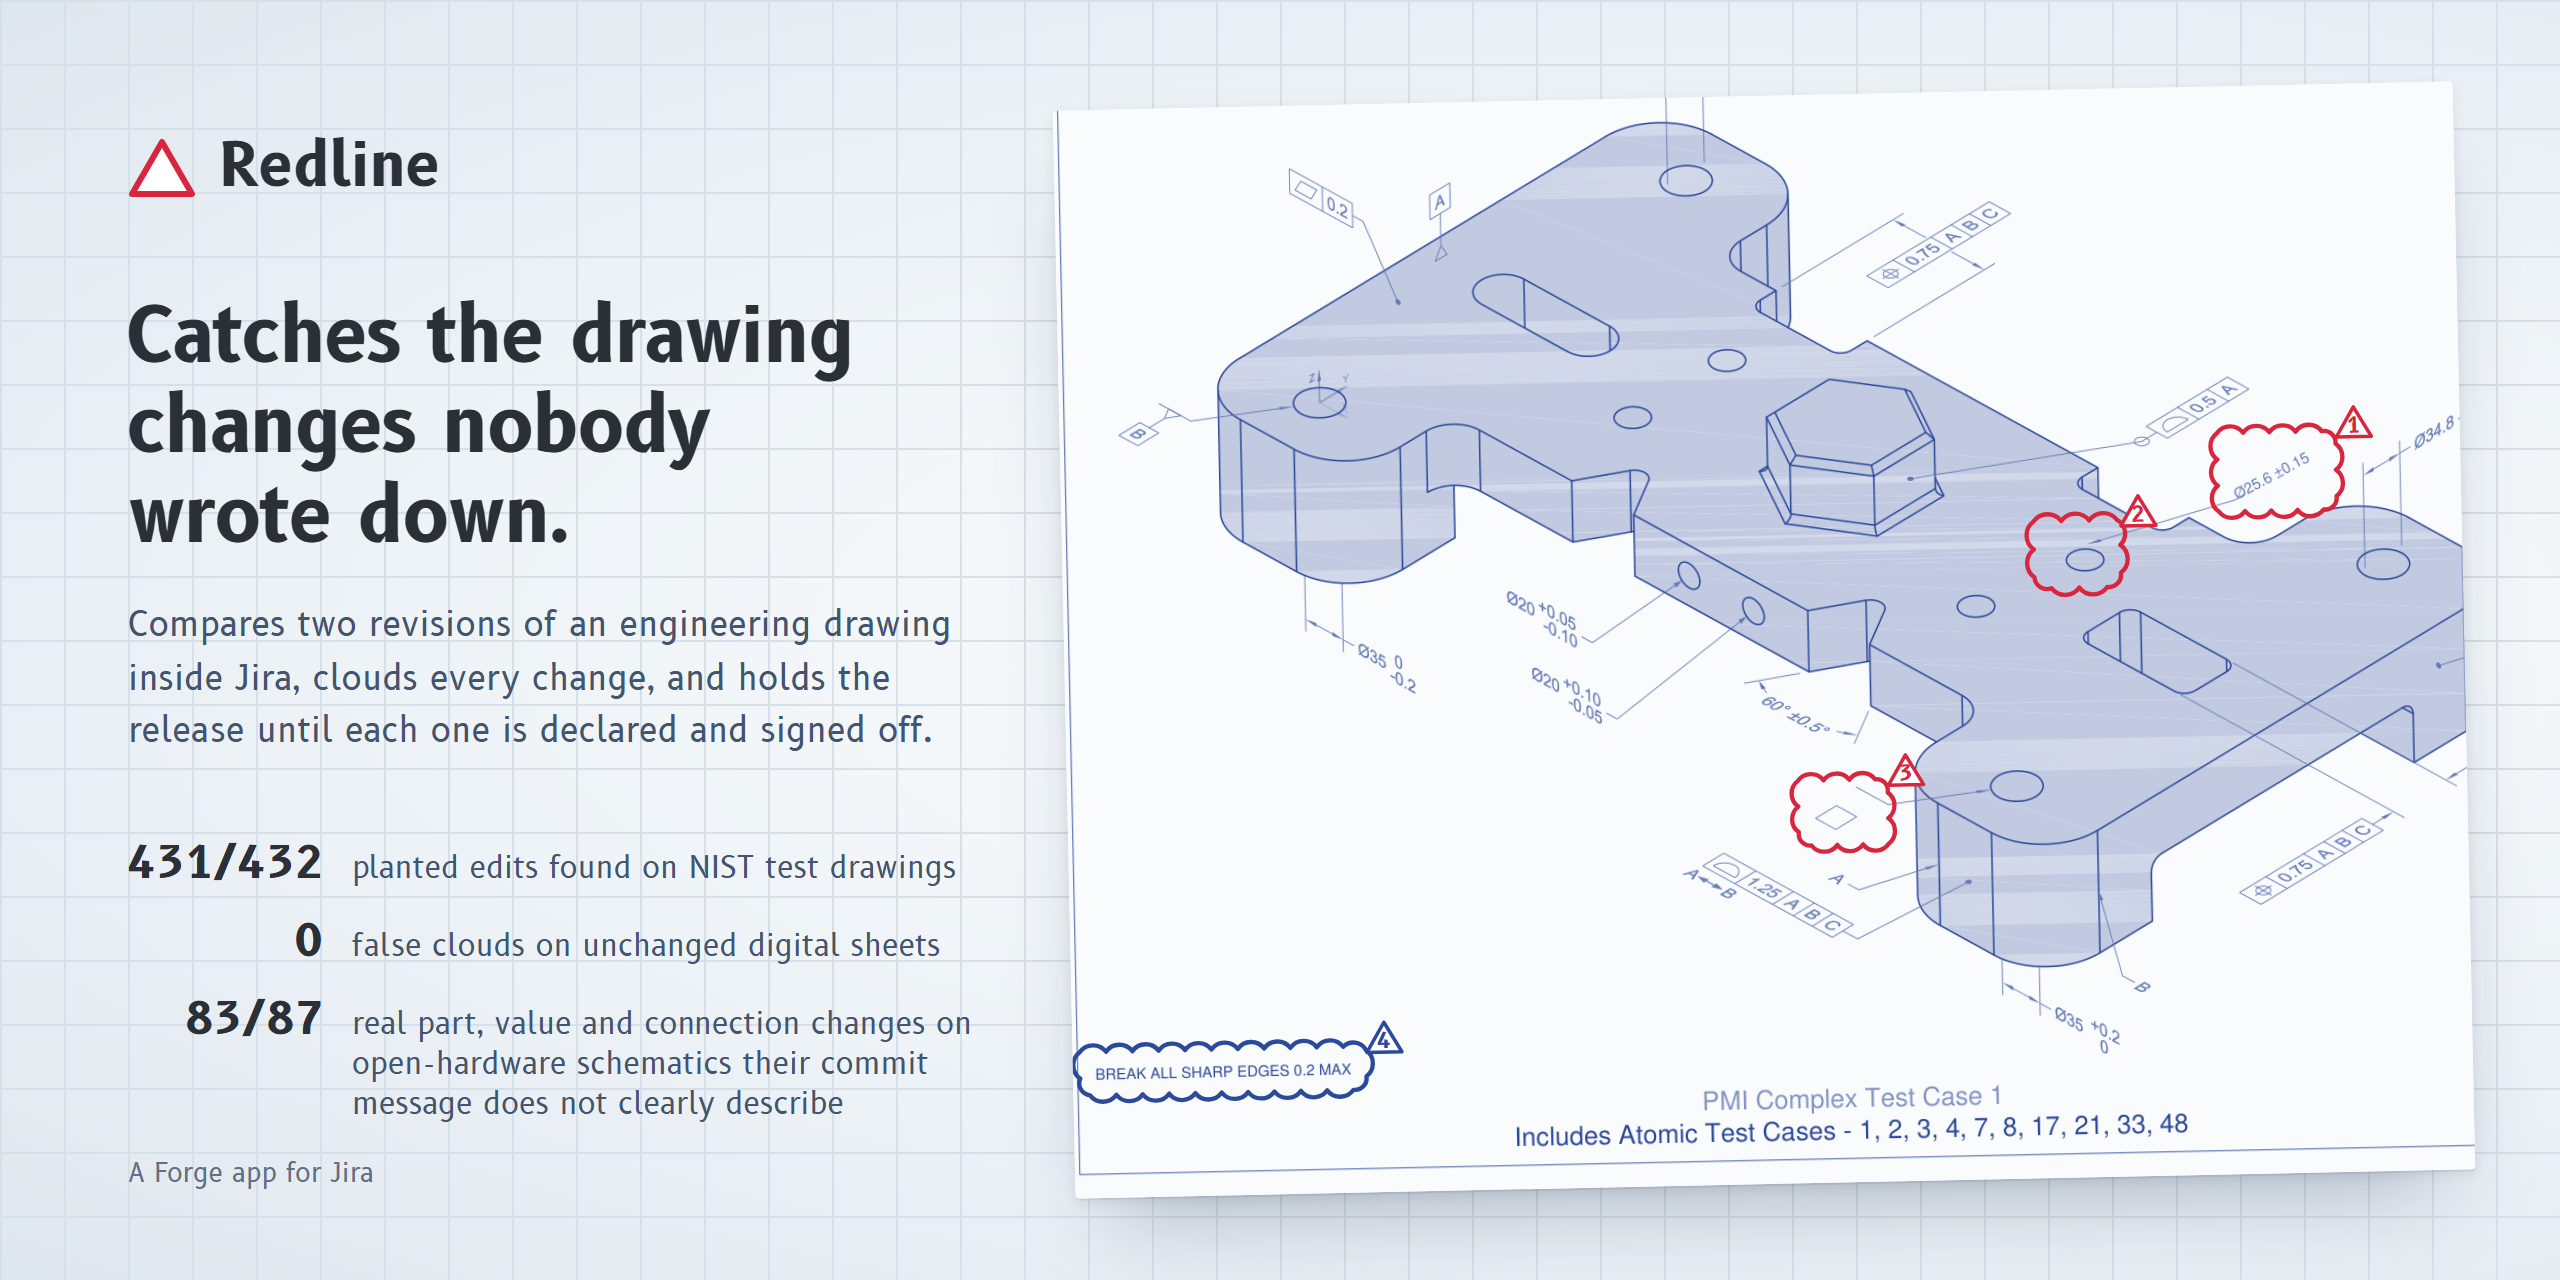
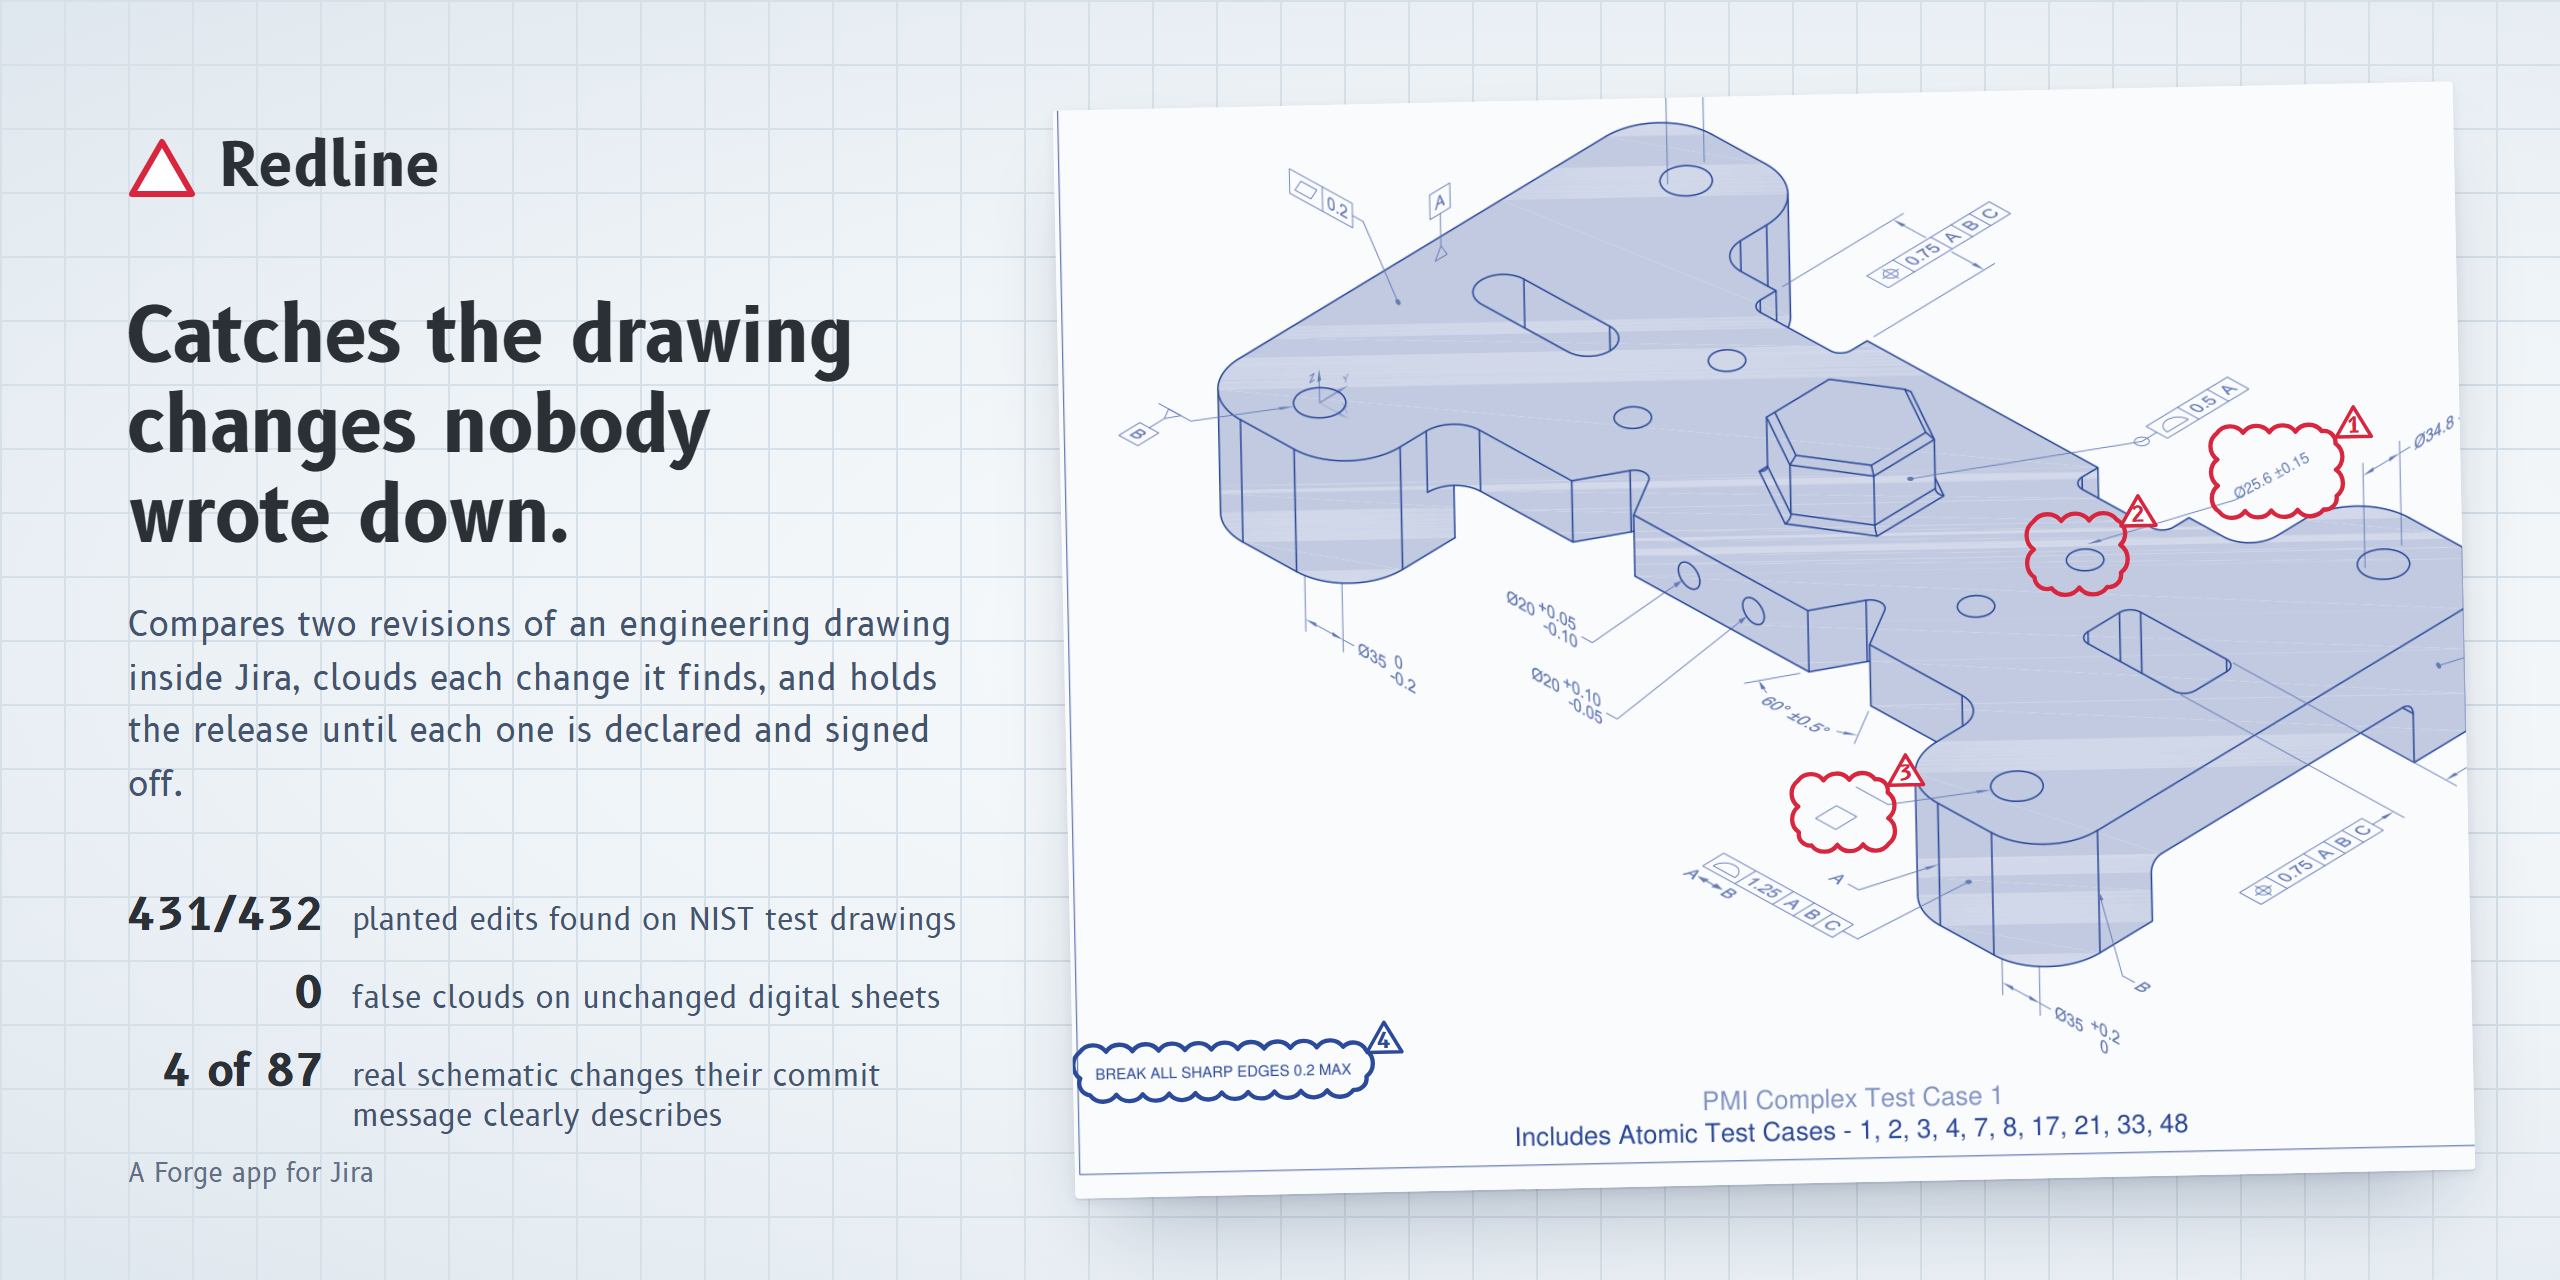
Design: changes lead with what they mean (Diameter 25 to 25.6), one-sentence value mismatch, a selected change shows on the drawing with pen markups stepped back, notes band keeps its height on short screens; 'the drawing is right' is for the note's words; cover and script say each change it finds a

Changed region(s): [[0.0312, 0.6562, 0.375, 0.875], [0.0625, 0.5, 0.375, 0.5938], [0.0312, 0.5938, 0.0625, 0.625]]

diff --git a/static/lighttable/src/LightTable.jsx b/static/lighttable/src/LightTable.jsx
@@ -7,7 +7,7 @@ import { revisionOfName } from './engine/titleblock.mjs';
 import { meaningOf } from './engine/meaning.mjs';
 import { analyse, noteSheet, composite, grayToImage, ENGINE_VERSION, ZONE_COLS, ZONE_ROWS, loadPhoto, readPrint, photoForUpload, quadMatrix } from './analysis.js';
 import { cloudPath } from './cloud.js';
-import { gateOf, valueSlip, noteSlip, slipOf, noteKey } from '../../../shared/gate.mjs';
+import { gateOf, valueSlip, noteSlip, slipOf, noteKey, valueOkFor } from '../../../shared/gate.mjs';
 
 const MODES = [
   { key: 'overlay', label: 'Overlay', hint: 'Shared lines in graphite, removed in red, added in blue' },
@@ -363,6 +363,8 @@ export default function LightTable() {
     if (!c) return;
     const isMark = marks.some((m) => m.id === c.id), on = isMark ? 1 : c.sheet || res.sheet;
     if (on !== res.sheet) { focusRef.current = { id: c.id, sheet: on }; if (!turning) goSheet(on); return; }
+    // a drawing change is shown on the drawing (the photo's handwriting would cover it); a pen markup on the photo
+    setMode((m) => (isMark ? 'print' : m === 'print' ? 'overlay' : m));
     setSel(c.id); flyTo(c);
   };
 
@@ -416,7 +418,7 @@ export default function LightTable() {
       const d = decisions[sel] || {};
       if (/^[1-9]$/.test(e.key) && c.kind !== 'titleBlock' && order.notes.some((n) => n.n === +e.key) && !(d.status === 'declared' && d.note === +e.key)) decide(sel, { status: 'declared', note: +e.key, signedBy: null, signedAt: null, valueOk: null });
       if (e.key.toLowerCase() === 's' && (d.status === 'accepted' || (d.status === 'declared' && order.notes.some((n) => n.n === d.note))) && !d.signedBy) {
-        if (!(d.status === 'declared' && !d.valueOk && slipOf(c, order.notes.find((n) => n.n === d.note)?.text))) signOff(sel);
+        if (!(d.status === 'declared' && !valueOkFor(d, order.notes.find((n) => n.n === d.note)) && slipOf(c, order.notes.find((n) => n.n === d.note)?.text))) signOff(sel);
       }
     };
     addEventListener('keydown', onKey); return () => removeEventListener('keydown', onKey);
@@ -507,7 +509,7 @@ export default function LightTable() {
                 {res.sheet === 1 && marks.map((m, i) => {
                   const d = markDecisions[m.id] || {};
                   return (
-                    <g key={m.id} className={`rl-mark ${d.status || 'open'} ${sel === m.id ? 'sel' : ''}`} style={{ '--delay': `${i * 220}ms` }}
+                    <g key={m.id} className={`rl-mark ${d.status || 'open'} ${sel === m.id ? 'sel' : sel && !marks.some((x) => x.id === sel) ? 'faded' : ''}`} style={{ '--delay': `${i * 220}ms` }}
                       onClick={(e) => { e.stopPropagation(); select(m); }}>
                       <ellipse cx={(m.x0 + m.x1) / 2} cy={(m.y0 + m.y1) / 2} rx={(m.x1 - m.x0) / 2 + 14 / cam.s} ry={(m.y1 - m.y0) / 2 + 12 / cam.s} pathLength="1" />
                       <g className="tag" transform={`translate(${m.x0 - 6 / cam.s},${m.y0 - 6 / cam.s}) scale(${Math.min(2.5, 1 / cam.s)})`}>
@@ -546,14 +548,15 @@ function ValueCheck({ c, d, note, onDecide }) {
   if (!note || (!c.values?.length && !c.before)) return null;
   const slip = valueSlip(c, note.text), promised = noteSlip(c, note.text);
   if (!slip.length && !promised.length) return c.values?.length ? <p className="rl-value ok">Values match note {note.n}: {c.values.join(', ')}</p> : null;
-  if (d.valueOk) return <p className="rl-value ok">Drawing confirmed against note {note.n} by {d.valueOk.by}</p>;
+  if (d.valueOk && (d.valueOk.noteText == null || d.valueOk.noteText === noteKey(note.text))) return <p className="rl-value ok">Drawing confirmed against note {note.n} by {d.valueOk.by}</p>;
   return (
     <div className="rl-value slip" role="alert">
-      <p>{slip.length > 0 && <b>Drawing says {slip.join(', ')}; note {note.n} does not. </b>}
-        {promised.length > 0 && <b>Note {note.n} says {promised.join(', ')}; the drawing does not. </b>}
+      <p>{slip.length > 0 && promised.length > 0 ? <b>Note {note.n} says {promised.join(', ')}; the drawing says {slip.join(', ')}. </b>
+        : slip.length > 0 ? <b>Drawing says {slip.join(', ')}; note {note.n} does not. </b>
+        : <b>Note {note.n} says {promised.join(', ')}; the drawing does not. </b>}
         Note {note.n}: “{note.text}”</p>
       <div className="rl-choices">
-        <button className="rl-btn" onClick={() => onDecide(c.id, { valueOk: { by: 'you', at: new Date().toISOString() } })}>The drawing is right</button>
+        <button className="rl-btn" onClick={() => onDecide(c.id, { valueOk: { by: 'you', at: new Date().toISOString(), noteText: noteKey(note.text) } })}>The drawing is right</button>
         <button className="rl-btn danger" onClick={() => onDecide(c.id, { status: 'rejected', note: null })}>Send back</button>
       </div>
     </div>
@@ -951,7 +954,7 @@ function CloudRow({ c, i, d, notes, res, visible, active, onSelect, onDecide, on
     <li ref={rowRef} className={`rl-row ${state} ${active ? 'active' : ''} ${visible ? 'in' : ''}`} style={{ '--delay': `${i * stagger(res.clouds.length)}ms` }}>
       <button className="rl-row-main" onClick={() => onSelect(c)}>
         <span className="delta">{c.n}</span>
-        <span className="what"><b>{c.kind?.startsWith("sheet") ? "Whole sheet" : `Zone ${c.zone}`}</b>{kindText(c)}</span>
+        <span className="what"><b>{c.kind?.startsWith("sheet") ? "Whole sheet" : `Zone ${c.zone}`}</b>{meaningOf(c.before, c.after)[0]?.text || kindText(c)}</span>
         <Crop res={res} c={c} />
       </button>
       {(c.before || c.after) && (
@@ -961,7 +964,7 @@ function CloudRow({ c, i, d, notes, res, visible, active, onSelect, onDecide, on
             : <><span className="old">{c.before}</span><span aria-hidden="true"> → </span><span className="sr">changes to </span><span className="new">{c.after}</span></>}
         </p>
       )}
-      {meaningOf(c.before, c.after).map((m) => <p key={m.kind} className={`rl-meaning ${m.tighter ? 'tighter' : ''}`}>{m.text}</p>)}
+      {meaningOf(c.before, c.after).slice(1).map((m) => <p key={m.kind} className={`rl-meaning ${m.tighter ? 'tighter' : ''}`}>{m.text}</p>)}
       <div className="rl-row-act">
         {state === 'rejected' ? (
           <p className="st">Sent back to the drafter. <button className="link" onClick={() => onDecide(c.id, { status: 'open', note: null })}>Undo</button></p>
@@ -973,7 +976,7 @@ function CloudRow({ c, i, d, notes, res, visible, active, onSelect, onDecide, on
             {d.signedBy && d.status === 'declared' && d.noteText != null && notes.some((n) => n.n === d.note) && noteKey(notes.find((n) => n.n === d.note).text) !== d.noteText
               ? <><p className="rl-warn">Note {d.note} was edited after {d.signedBy} signed it off.</p><button className="rl-btn primary" onClick={() => onSign(c.id)}>Sign off again</button></>
               : d.signedBy ? <p className="signed">Signed off by {d.signedBy}, {new Date(d.signedAt).toLocaleString([], { dateStyle: 'medium', timeStyle: 'short' })}</p>
-              : (d.status === 'declared' && (!notes.some((n) => n.n === d.note) || (!d.valueOk && slipOf(c, notes.find((n) => n.n === d.note)?.text)))) ? null
+              : (d.status === 'declared' && (!notes.some((n) => n.n === d.note) || (!valueOkFor(d, notes.find((n) => n.n === d.note)) && slipOf(c, notes.find((n) => n.n === d.note)?.text)))) ? null
               : <button className="rl-btn primary" onClick={() => onSign(c.id)}>Sign off</button>}
           </>
         ) : (

diff --git a/static/lighttable/src/Panel.jsx b/static/lighttable/src/Panel.jsx
@@ -1,7 +1,7 @@
 // The issue panel: the release gate in one sentence, the changes by zone, and the way into the light table.
 import { useEffect, useState } from 'react';
 import { invoke, openLightTable } from './bridge.js';
-import { gateOf, valueSlip, slipOf } from '../../../shared/gate.mjs';
+import { gateOf, valueSlip, slipOf, valueOkFor } from '../../../shared/gate.mjs';
 import { cloudPath } from './cloud.js';
 
 export default function Panel() {
@@ -90,7 +90,7 @@ export default function Panel() {
                 const sh = c.sheet || 1;
                 const head = multi && sh !== (r.clouds[i - 1]?.sheet || 1) || (multi && i === 0)
                   ? [<li key={`h${sh}`} className="sheet-head">Sheet {sh}</li>] : [];
-                const slip = d.status === 'declared' && !d.valueOk && slipOf(c, o.notes?.find((n) => n.n === d.note)?.text);
+                const slip = d.status === 'declared' && !valueOkFor(d, o.notes?.find((n) => n.n === d.note)) && slipOf(c, o.notes?.find((n) => n.n === d.note)?.text);
                 const st = slip ? 'undeclared' : cloudStatus(d);
                 const label = d.status === 'rejected' ? 'Sent back' : slip ? `Value not in note ${d.note}` : d.status === 'declared' ? `Note ${d.note}` : d.status === 'accepted' ? 'Accepted' : c.kind === 'titleBlock' ? 'Title block not updated' : c.housekeeping ? 'Housekeeping' : 'Not in notes';
                 return [...head, (
@@ -118,7 +118,7 @@ export default function Panel() {
 }
 
 // a declared change whose drawing value its note does not state is drawn as needing attention
-const shownStatus = (c, d, notes) => (d.status === 'declared' && !d.valueOk && slipOf(c, notes?.find((n) => n.n === d.note)?.text) ? 'undeclared' : cloudStatus(d));
+const shownStatus = (c, d, notes) => (d.status === 'declared' && !valueOkFor(d, notes?.find((n) => n.n === d.note)) && slipOf(c, notes?.find((n) => n.n === d.note)?.text) ? 'undeclared' : cloudStatus(d));
 const cloudStatus = (d) => (d.status === 'rejected' ? 'rejected' : d.status === 'declared' || d.status === 'accepted' ? (d.signedBy ? 'signed' : 'declared') : 'undeclared');
 
 // Revision B of one sheet, as a diazo print, with every change clouded in the colour of its decision.

diff --git a/src/index.js b/src/index.js
@@ -178,7 +178,13 @@ resolver.define('saveReview', async (req) => {
     else if (d.signedAt) { d.signedById = me.accountId; d.signedBy = me.displayName; d.signedAt = now; signed.push(id); }
     if (!d.signedAt) { delete d.signedById; delete d.signedBy; }
     // "the drawing is right" on a value slip is a decision too: named by Jira, kept as first recorded
-    if (d.valueOk) d.valueOk = (same && before?.valueOk) || { by: me.displayName, byId: me.accountId, at: now };
+    // "the drawing is right" is kept as first recorded, for the note's words; a rewritten note drops it
+    if (d.valueOk) {
+      const kept = same && before?.valueOk && (before.valueOk.noteText == null || before.valueOk.noteText === noteText) ? before.valueOk : null;
+      if (kept) d.valueOk = kept;
+      else if (before?.valueOk && (before.valueOk.noteText ?? noteText) !== noteText && d.valueOk.at === before.valueOk.at) delete d.valueOk;
+      else d.valueOk = { by: me.displayName, byId: me.accountId, at: now, ...(noteText != null ? { noteText } : {}) };
+    }
   }
   // For the same pair of revisions, a save can add changes and compared sheets but never drop ones that
   // an earlier comparison found, and what was found about a change (its box, text and values) stays as

diff --git a/static/lighttable/src/styles.css b/static/lighttable/src/styles.css
@@ -360,7 +360,7 @@ button { font: inherit; color: inherit; }
 /* short laptop screens: the change notes scroll in their own band, so the first change and its value warning
    stay in view without scrolling the ledger */
 @media (max-height: 760px) {
-  .rl-notes { max-height: 132px; overflow: auto; padding-top: 10px; border-bottom: 1px solid var(--rl-border); }
+  .rl-notes { flex: 0 0 auto; min-height: 96px; max-height: 132px; overflow: auto; padding-top: 10px; border-bottom: 1px solid var(--rl-border); }
   .rl-notes li { padding: 5px 0; }
   .rl-found { padding-top: 10px; }
 }
@@ -370,3 +370,5 @@ button { font: inherit; color: inherit; }
 .rl-confirm { margin: 10px 0 0; padding: 10px 12px; border: 1px dashed var(--rl-border); border-radius: 6px; font-size: 13px; color: var(--rl-subtle); }
 .rl-confirm p { margin: 0 0 8px; } .rl-confirm.done p { margin: 0; }
 .rl-confirm b { color: var(--rl-text); }
+/* while a drawing change is selected, the pen markups step back so the change reads first */
+.rl-mark.faded ellipse { opacity: 0.18; transition: opacity .2s; } .rl-mark.faded .tag { opacity: 0.4; }

diff --git a/docs/cover/cover.html b/docs/cover/cover.html
@@ -36,11 +36,11 @@ dd { margin: 0; font-size: 15px; color: #44546f; }
     Redline
   </div>
   <h1>Catches the drawing changes nobody wrote down.</h1>
-  <p class="lede">Compares two revisions of an engineering drawing inside Jira, clouds every change, and holds the release until each one is declared and signed off.</p>
+  <p class="lede">Compares two revisions of an engineering drawing inside Jira, clouds each change it finds, and holds the release until each one is declared and signed off.</p>
   <dl>
     <dt>431/432</dt><dd>planted edits found on NIST test drawings</dd>
     <dt>0</dt><dd>false clouds on unchanged digital sheets</dd>
-    <dt>83/87</dt><dd>real part, value and connection changes on open-hardware schematics their commit message does not clearly describe</dd>
+    <dt>4 of 87</dt><dd>real schematic changes their commit message clearly describes</dd>
   </dl>
 </div>
 <div class="foot">A Forge app for Jira</div>
